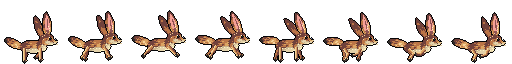
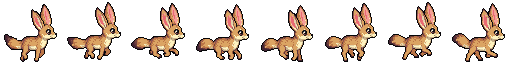
Fennek von PixelLab aufpoliert: Galopp und drei Idles im Camp (#107)
Claude-Session: https://claude.ai/code/session_01DEYRZwUMawnFhuJ1ovhEq1

diff --git a/docs/assets.md b/docs/assets.md
@@ -94,7 +94,8 @@ Alle Assets entstehen im Projekt selbst, mit KI oder Code. Nichts Externes. Jede
 | `assets/items/icons_treasure.png` | 16 Wertsachen als Symbole, 4 × 4 à 64 px | KI (PixelLab, Create Image Pro, Stilbild icons_gear) | 11.11.2026 |
 | `assets/items/icons_misc.png` | Symbole Kleinkram & Nachzügler (#018, `icons_misc`, 4 × 4 à 64 px): Glühbirne, Kronkorken, Stoffreste, Schrottplatte, Discokugel, Rohrbogen, Auspuffkrümmer, Teleskopantenne, T-Stück (per Code vom Kreuz zum T beschnitten), Verkohlter Klumpen, Schrottskulptur, Hochleistungszelle, Turbinenmodul, Schockstab, Schulranzen, Wanderrucksack | KI (PixelLab, Create Image Pro, AAP-64, Stilbild icons_treasure) | 14.11.2026 |
 | `assets/items/icons_misc2.png` (+ `source/gefangener_source.pix`, `gefangener_draw.py`) | Symbole Kleinkram 2 (`icons_misc2`, 4 × 4 à 64 px): Feld 1 Gefangener (#079, gefesselter Plünderer mit Irokese), 15 Felder frei | NomadPixel (Claude Code, Text-Pixel-Art, Palette AAP-64, .pix-Quelle) | 19.11.2026 |
-| `assets/fennek/run.png` (+ `run_source.pix`, `run_draw.py`; v1: `run_v1_*`) | Fennek · Rennen (`fennek_run`): 8 Frames à 64 × 64 px als Streifen, Galopp nach rechts, Ohren schwingen mit, Kleinvieh für den Hintergrund (Pixel-Auftrag „Fennek“, v2 mit mehr Details) | NomadPixel (Claude Code, Text-Pixel-Art, Palette AAP-64, .pix-Quelle) | 19.11.2026 |
+| `assets/fennek/run.png`, `look.png`, `sniff.png`, `scratch.png`, `base.png` | Fennek (`fennek_run` Galopp 8, `fennek_look` Umschauen 9, `fennek_sniff` Schnuppern 9, `fennek_scratch` Kratzen 13, je 64 × 64 px), Kleinvieh im Camp | KI (PixelLab: Create Image Pro Flash mit dem handgezeichneten Fennek als Stilbild, Animate Image), AAP-64; beim Schnuppern 18 bläuliche Pixel per Code entfernt | 19.11.2026 |
+| `assets/fennek/handgezeichnet/` | der handgezeichnete Fennek (v1, v2) mit .pix-Quellen | NomadPixel (Claude Code, Text-Pixel-Art, AAP-64) | 19.11.2026 |
 | `assets/travel/road.png` (+ `raw/road.png`) | Reisebild für Zwischenfälle (#021, `travel_road`): Van auf leerer Wüstenstraße in der Dämmerung, Stadt am Horizont; Rand per Code abgeschnitten | KI (PixelLab, Create Image Pro 688 × 384, AAP-64, Stilbild Intro-Panel 3, Referenz Van) | 14.11.2026 |
 | `assets/tiles/tileset00/source/mall.png`, `bunker.png`, `marble.png`, `clutter_mall3.png`, `clutter_bunker3.png`, `clutter_ministry3.png` (→ `terrain.png`, `props.png`) | Kachel-Sets Großmarkt, Bunker 13, Ministerium + je 16 Clutter (streng orthogonal) | KI (PixelLab, Create Image Pro, AAP-64, Stilbild floor/metal/clutter_station3), Zuschnitt `tools/tileset00.py` | 11.11.2026 |
 | `assets/leyla/yoga_front.png` (+ `yoga_front_source.gif`) | Leyla Yoga (Baum-Pose) von vorn, 12 Frames, Absinken pro Frame ausgeglichen | KI-generiert (Daniel), zugeschnitten (Code) | 07.11.2026 |

diff --git a/docs/changelog.md b/docs/changelog.md
@@ -2,6 +2,7 @@
 
 Verlauf: was wann gebaut wurde (früher `CLAUDE.md` › Stand). Neue Einträge oben.
 
+- 19.11.2026: **Fennek von PixelLab aufpoliert** (Daniel: „ordentlich aufpolieren und ein paar Idle-Animationen“): neue Grundpose, neuer Galopp, drei Idles (Umschauen mit Zwinkern, Schnuppern, Hinsetzen und Kratzen). Im Camp bleibt er meist in der Bildmitte stehen, spielt eine Idle und flitzt weiter. Werkstatt › Camp › Kleinvieh: Idles, Bleibt stehen %. PixelLab 9.
 - 19.11.2026: **Skilltrees** (#110): 108 Knoten statt 7. Technik 26, Wissen 24, Bio 27, Dunkelheit 31 (der dunkle Tab bleibt bis #080 verborgen). Jeder Knoten hat ein PixelLab-Bild im Stil der alten. Neue Freischaltungen: Boni für jeden Leyla- und Camp-Wert über den Boni-Bus, Werkstätten und Rig-Teile erst nach ihrem Knoten kaufbar, Merker und Orte; Knoten mit eigener Mechanik zeigen „Wirkung folgt“. Kinder stehen im Baum auf der Höhe ihrer Eltern.
 - 19.11.2026: **Balancing v1 ist Standard** (#097): Startgeld 600 Δ, Bio auch aus Kisten und Mutanten, Techtree in der Mitte teurer. Die alten Werte liegen als Datenset „Vor Balancing v1“. Dazu ein **Cheat-Menü** im Pause-Menü, nur auf Geräten, die einmal mit `?cheats=1` geöffnet wurden (Δ, Ressourcen, Leben, Tank, Sprit, Karte, Uhr).
 - 19.11.2026: **NomadPixel: Relief-Licht** – Objekte bekommen eine Höhenkarte und werden daraus beleuchtet (Glanz, Eigen- und Schlagschatten, Fugen, Rost und Schrammen); Kritiker: flach 2,3 → 3,3–3,4.

diff --git a/docs/features/camp.md b/docs/features/camp.md
@@ -56,3 +56,4 @@ Daniel, 19.11.2026, Karte #040: „Ja, erst klein“ (Leute, Aufnahme, Jobs; die
 - **Verborgene Eigenheit** zeigt sich beim Ankommen nach „Verborgene Eigenheit nach“ Tagen (Meldung „Du lernst … besser kennen“). Wirkungen der Eigenheiten kommen mit der Rig-Moral (#040 Teil 2).
 - **Jobs:** Lagerfeuer › **Crew** → Person → Werkstatt (sortiert nach dem, was sie dort bringt): ihre beste Fähigkeit für die Funktion der Werkstatt geht mit Name in den Boni-Bus (z. B. Köchin an der Kochnische: Perfekt kochen +6 je Stufe). Eine Person je Werkstatt, Job beenden, Entlassen (mit Rückfrage).
 - Geprüft: `test/crew.test.js` (4), `tools/crew_test.mjs` (3).
+- **Kleinvieh** (#107, Daniel 19.11.2026): Camp › Kleinvieh (Tabelle: Animation, Alle s, Tempo, Abends öfter, **Idles**, **Bleibt stehen %**). Ab und zu läuft ein Tier (der Fennek) über den Camp-Boden; mit Idles bleibt es meist (75 %) im mittleren Drittel stehen, spielt eine davon ein- bis zweimal und läuft weiter. Code `CampLife.updateCritters` (`game/play/camp_life.js`).
